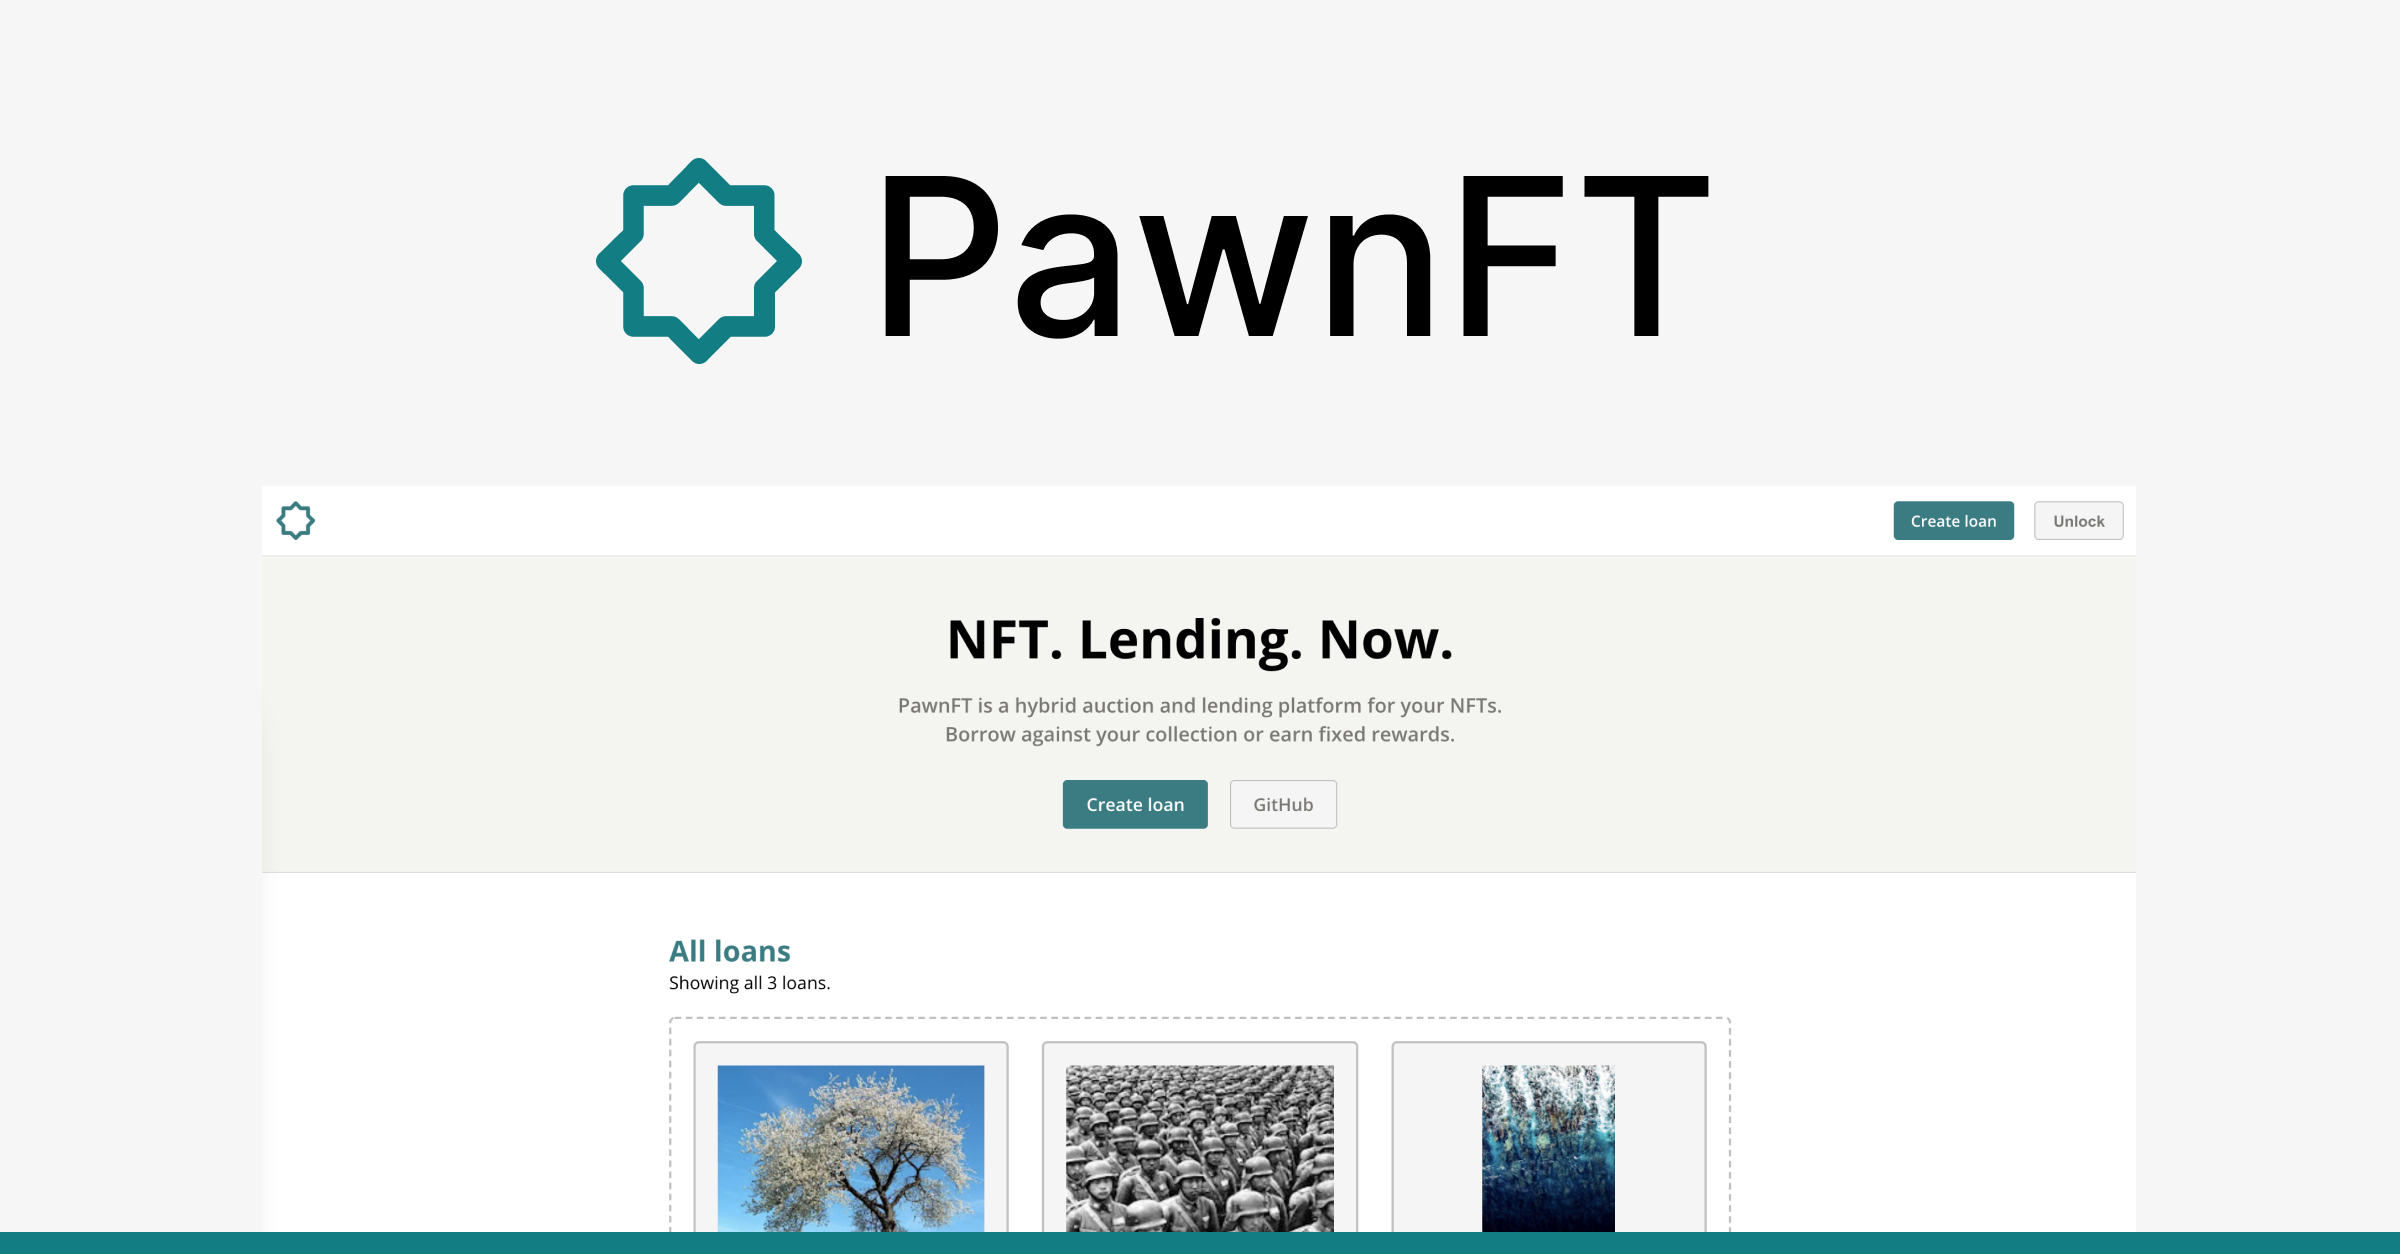
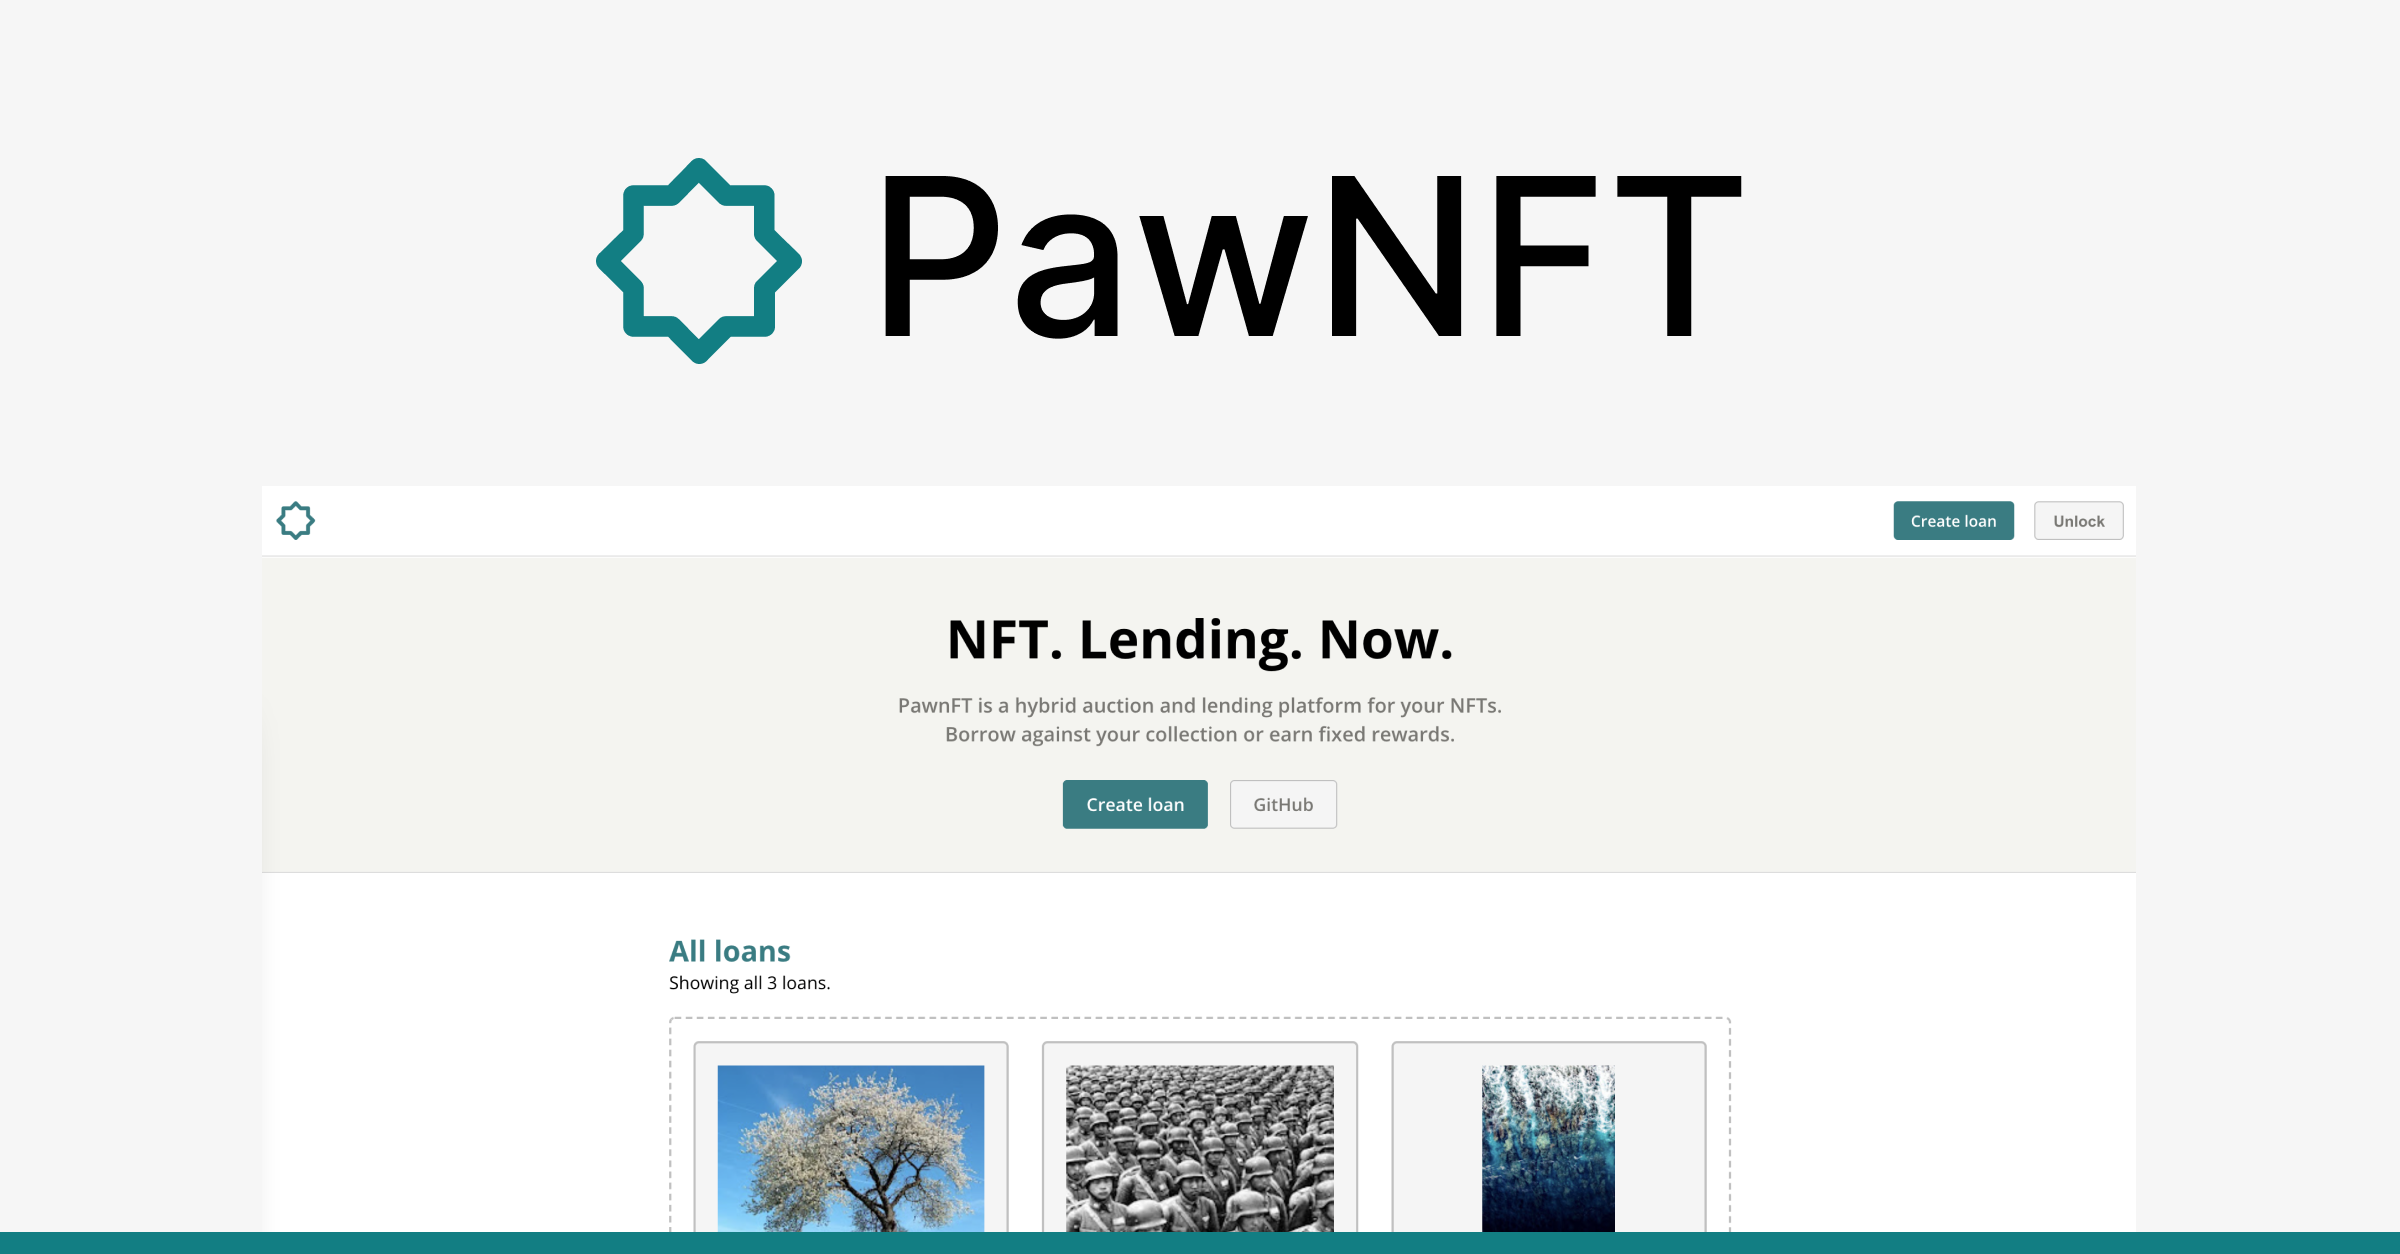
Capitalization update + meta

Changed region(s): [[0.5312, 0.1244, 0.75, 0.2799]]

diff --git a/frontend/pages/_document.tsx b/frontend/pages/_document.tsx
@@ -10,38 +10,38 @@ export default class PawnBankDocument extends Document {
         {/* Custom Head */}
         <Head>
           {/* General Meta */}
-          <title>PawnFT — Collateralized NFT lending</title>
-          <meta name="title" content="PawnFT — Collateralized NFT lending" />
+          <title>PawNFT — Collateralized NFT lending</title>
+          <meta name="title" content="PawNFT — Collateralized NFT lending" />
           <meta
             name="description"
-            content="PawnFT is a hybrid auction and lending platform for your NFTs. Borrow against your collection or earn fixed rewards. A hack by Anish Agnihotri."
+            content="PawNFT is a hybrid auction and lending platform for your NFTs. Borrow against your collection or earn fixed rewards. A hack by Anish Agnihotri."
           />
 
           {/* Open Graph + Facebook */}
           <meta property="og:type" content="website" />
-          <meta property="og:url" content="https://pawnft.co/" />
+          <meta property="og:url" content="https://PawNFT.co/" />
           <meta
             property="og:title"
-            content="PawnFT — Collateralized NFT lending"
+            content="PawNFT — Collateralized NFT lending"
           />
           <meta
             property="og:description"
-            content="PawnFT is a hybrid auction and lending platform for your NFTs. Borrow against your collection or earn fixed rewards. A hack by Anish Agnihotri."
+            content="PawNFT is a hybrid auction and lending platform for your NFTs. Borrow against your collection or earn fixed rewards. A hack by Anish Agnihotri."
           />
-          <meta property="og:image" content="https://pawnft.co/meta.png" />
+          <meta property="og:image" content="https://PawNFT.co/meta.png" />
 
           {/* Twitter */}
           <meta property="twitter:card" content="summary_large_image" />
-          <meta property="twitter:url" content="https://pawnft.co" />
+          <meta property="twitter:url" content="https://PawNFT.co" />
           <meta
             property="twitter:title"
-            content="PawnFT — Collateralized NFT lending"
+            content="PawNFT — Collateralized NFT lending"
           />
           <meta
             property="twitter:description"
-            content="PawnFT is a hybrid auction and lending platform for your NFTs. Borrow against your collection or earn fixed rewards. A hack by Anish Agnihotri."
+            content="PawNFT is a hybrid auction and lending platform for your NFTs. Borrow against your collection or earn fixed rewards. A hack by Anish Agnihotri."
           />
-          <meta property="twitter:image" content="https://pawnft.co/meta.png" />
+          <meta property="twitter:image" content="https://PawNFT.co/meta.png" />
 
           {/* Fonts */}
           <link rel="preconnect" href="https://fonts.googleapis.com" />

diff --git a/frontend/pages/index.tsx b/frontend/pages/index.tsx
@@ -44,7 +44,7 @@ export default function Home(): ReactElement {
         <div className={styles.home__cta}>
           <h1>Lend your NFTs</h1>
           <p>
-            PawnFT is a hybrid auction and lending platform for your NFTs.
+            PawNFT is a hybrid auction and lending platform for your NFTs.
             Borrow against your collection or earn fixed rewards.
           </p>
 
@@ -57,7 +57,7 @@ export default function Home(): ReactElement {
 
             {/* Open GitHub in new tab */}
             <a
-              href="https://github.com/anish-agnihotri/pawnft"
+              href="https://github.com/anish-agnihotri/PawNFT"
               target="_blank"
               rel="noopener noreferrer"
             >

diff --git a/README.md b/README.md
@@ -1,18 +1,18 @@
 <img src="https://www.pawnft.co/vectors/logo.svg" width="50" />
 
-# PawnFT
+# PawNFT
 
 NFT-collateralized lending, inspired by conversations with [Mark Beylin](https://twitter.com/MarkBeylin/status/1416959609143808003).
 
 Non-fungible assets are difficult to price effectively, limiting their ability to be used as a form of collateral. Thus far, NFT-lending (see: [nftfi](https://nftfi.com/)) has been largely p2p with NFT owners proposing fixed loan requirements and terms, upfront.
 
-PawnFT uses an active auction mechanism to achieve three results:
+PawNFT uses an active auction mechanism to achieve three results:
 
 1. Better price discovery for non-fungible assets through locked top bids
 2. Ability to draw capital against NFT collateral, through active bids
 3. Fixed-term, fixed-interest rewards for lenders
 
-For NFT owners, PawnFT offers either: (1) a way to draw capital against their non-fungible collateral, or (2) a short-dated put on the price of their NFT (with the premium paid being the fixed interest to top bidder).
+For NFT owners, PawNFT offers either: (1) a way to draw capital against their non-fungible collateral, or (2) a short-dated put on the price of their NFT (with the premium paid being the fixed interest to top bidder).
 
 This implementation closely follows [Mark's spec](https://twitter.com/MarkBeylin/status/1416979784886886402?s=20), save for adding cascading interest payments aross subsequent lenders (Mark's spec forces worst rates for future lenders).
 

diff --git a/contracts/README.md b/contracts/README.md
@@ -1,4 +1,4 @@
-# PawnFT [Contracts]
+# PawNFT [Contracts]
 
 `PawnBank.sol` issues PawnLoans that track all details about an individual loan. Users can `createLoan`, `underwriteLoan`, `drawLoan`, `repayLoan`, `cancelLoan`, or `seizeNFT`.
 

diff --git a/frontend/README.md b/frontend/README.md
@@ -1,4 +1,4 @@
-# PawnFT [Frontend]
+# PawNFT [Frontend]
 
 [NextJS](https://nextjs.org) application as an interface to the contracts.
 
